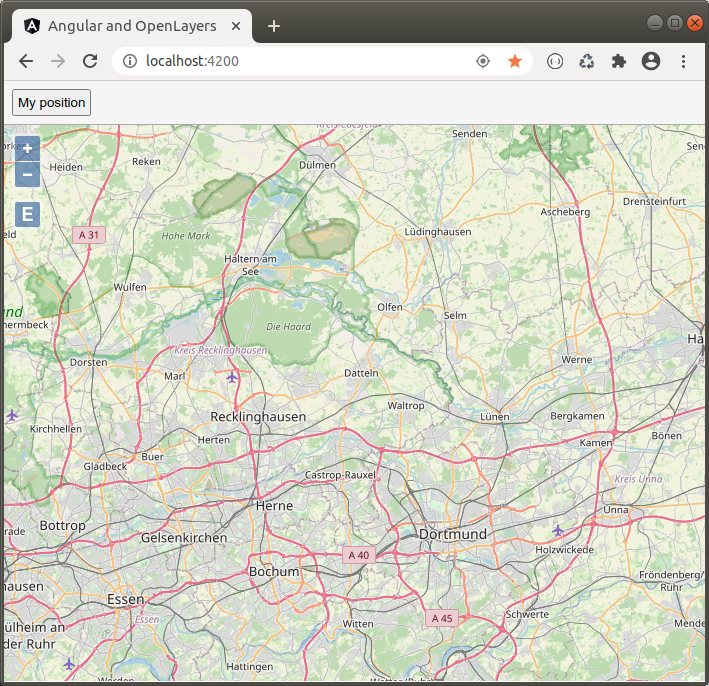
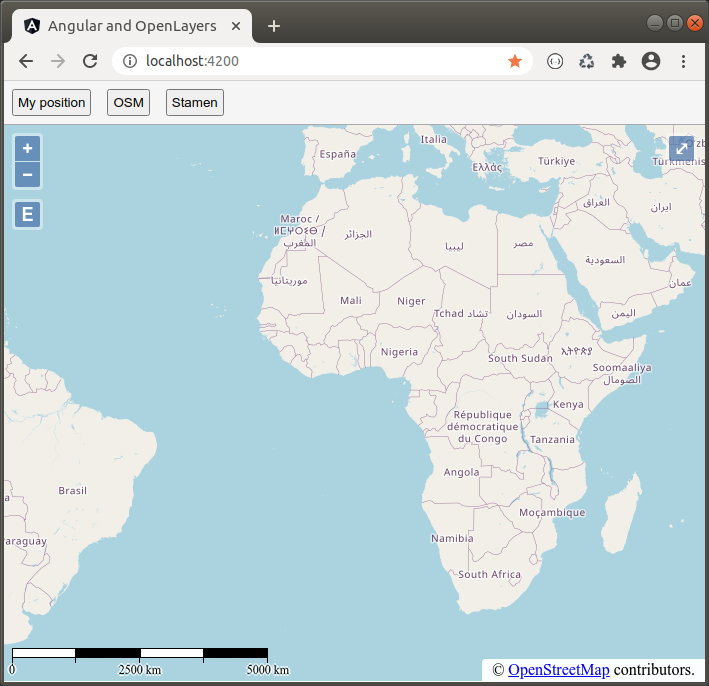
Sources fixed; Preview updated

diff --git a/src/model/geo.service.ts b/src/model/geo.service.ts
@@ -20,15 +20,17 @@ import { Injectable } from '@angular/core';
 })
 export class GeoService {
 
-  // OL-Map
+  /** OL-Map. */
   readonly map: Map;
 
-  // Basic layer
+  /** Basic layer. */
   readonly layerTile: LayerTile;
+
+  /** Sources for basic layer. */
+  readonly sources: { readonly osm: SourceOsm; readonly stamen: SourceStamen; };
 
   /**
    * Initialise the map.
-   * @param view View with initial center and zoom.
    */
   constructor() {
     this.sources = {
